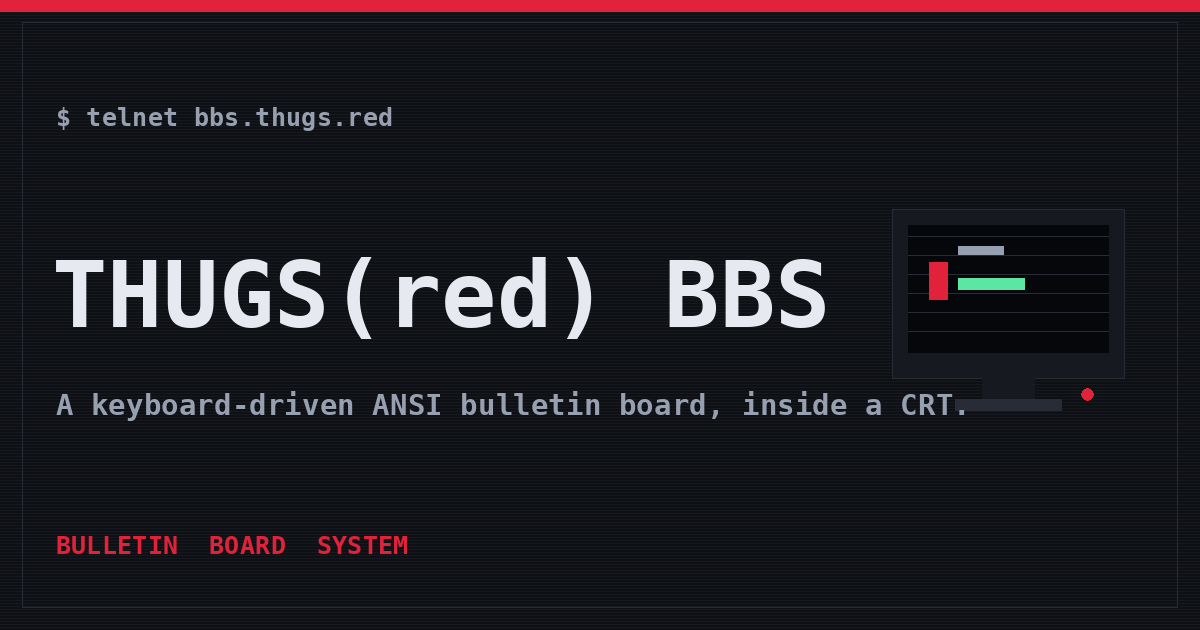
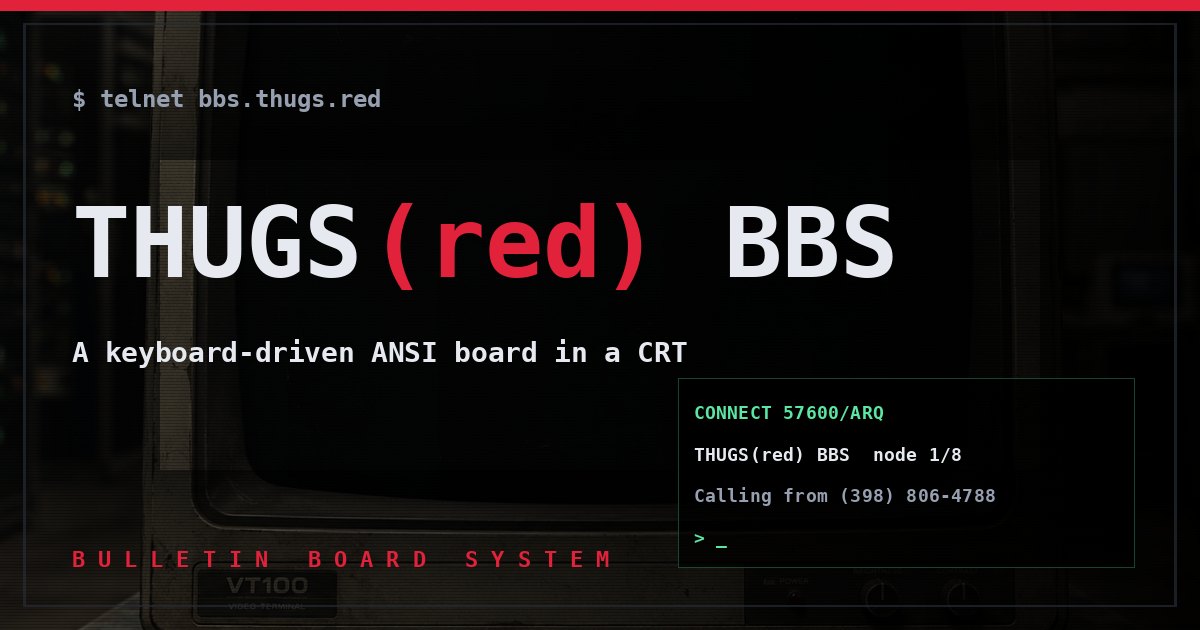
OG/social: cross-origin images, HEAD/OPTIONS, right-sized tags, CRT-photo cards
- Serve share images with Access-Control-Allow-Origin:* + Cross-Origin-Resource-
  Policy: cross-origin (both the /og/*.png endpoint and static /media images via
  .htaccess) so Discord/Slack/X/iMessage unfurlers can load them.
- Router serves HEAD via the GET handler and answers OPTIONS with a 204 + CORS
  headers (crawlers rely on both).
- Shorter homepage <title> (~52) and meta/OG description (~127); PageController
  clips every route's tags to search/social-safe lengths. Adds seo_title
  setting, og:image:type/alt/secure_url, twitter:image:alt, og:locale.
- OG cards rebuilt on the real CRT-monitor photo: darkened backdrop, left
  gradient, scanlines, big THUGS(red) wordmark, faux terminal panel. Homepage
  uses the polished static og-default.png; entity cards render dynamically.
- Fix drawCard font/monitor paths (were resolving under app/ and to a
  non-existent TTF, so cards fell back to bitmap text).

Claude-Session: https://claude.ai/code/session_01FLpjsYTqjJtSfRssCCAwyK

diff --git a/app/src/Http/Controllers/SeoController.php b/app/src/Http/Controllers/SeoController.php
@@ -92,7 +92,9 @@ final class SeoController
             ],
         ];
         return Response::raw(json_encode($m, JSON_UNESCAPED_SLASHES | JSON_PRETTY_PRINT), 'application/manifest+json')
-            ->withHeader('Cache-Control', 'public, max-age=86400');
+            ->withHeader('Cache-Control', 'public, max-age=86400')
+            ->withHeader('Access-Control-Allow-Origin', '*')
+            ->withHeader('Cross-Origin-Resource-Policy', 'cross-origin');
     }
 
     public function securityTxt(Request $req): Response
@@ -110,8 +112,7 @@ final class SeoController
         $slug = preg_replace('/[^a-z0-9_-]/i', '', $args['slug']) ?: 'default';
         $cacheFile = Storage::cachePath('og/' . $slug . '.png');
         if (is_file($cacheFile) && filemtime($cacheFile) > time() - 3600) {
-            return Response::raw((string) file_get_contents($cacheFile), 'image/png')
-                ->withHeader('Cache-Control', 'public, max-age=3600');
+            return $this->imageResponse((string) file_get_contents($cacheFile));
         }
 
         [$headline, $sub] = $this->ogText($slug);
@@ -119,7 +120,19 @@ final class SeoController
         @mkdir(dirname($cacheFile), 0770, true);
         @file_put_contents($cacheFile, $png);
 
-        return Response::raw($png, 'image/png')->withHeader('Cache-Control', 'public, max-age=3600');
+        return $this->imageResponse($png);
+    }
+
+    /** Share images must be loadable cross-origin so link unfurlers can render them. */
+    private function imageResponse(string $png): Response
+    {
+        return Response::raw($png, 'image/png')
+            ->withHeader('Cache-Control', 'public, max-age=3600')
+            ->withHeader('Access-Control-Allow-Origin', '*')
+            ->withHeader('Cross-Origin-Resource-Policy', 'cross-origin')
+            ->withHeader('Timing-Allow-Origin', '*')
+            ->withHeader('Content-Length', (string) strlen($png))
+            ->withHeader('Vary', 'Accept');
     }
 
     /** @return array{0:string,1:string} */
@@ -158,36 +171,50 @@ final class SeoController
         $W = 1200;
         $H = 630;
         $im = imagecreatetruecolor($W, $H);
-        $bg     = imagecolorallocate($im, 0x0e, 0x10, 0x13);
-        $panel  = imagecolorallocate($im, 0x16, 0x19, 0x1f);
-        $line   = imagecolorallocate($im, 0x27, 0x2c, 0x36);
-        $red    = imagecolorallocate($im, 0xe2, 0x22, 0x3b);
-        $text   = imagecolorallocate($im, 0xe6, 0xe9, 0xef);
-        $muted  = imagecolorallocate($im, 0x97, 0xa0, 0xb0);
-        imagefill($im, 0, 0, $bg);
+        imagealphablending($im, true);
+        $ca = static fn ($r, $g, $b, $a = 0) => imagecolorallocatealpha($im, $r, $g, $b, $a);
+        $line  = $ca(0x27, 0x2c, 0x36);
+        $red   = $ca(0xe2, 0x22, 0x3b);
+        $text  = $ca(0xe6, 0xe9, 0xef);
+        $muted = $ca(0x97, 0xa0, 0xb0);
+        $green = $ca(0x5b, 0xe6, 0xa3);
+        imagefilledrectangle($im, 0, 0, $W, $H, $ca(0x05, 0x07, 0x0a));
 
-        // scanline texture
-        for ($y = 0; $y < $H; $y += 3) {
-            imageline($im, 0, $y, $W, $y, $panel);
+        // CRT-monitor photo backdrop: cover-fit, darkened, then a left gradient
+        $monPath = BBS_ROOT . '/html/media/images/monitor.png';
+        $mon = is_file($monPath) ? @imagecreatefrompng($monPath) : false;
+        if ($mon) {
+            $mw = imagesx($mon);
+            $mh = imagesy($mon);
+            $s  = max($W / $mw, $H / $mh) * 1.06;
+            $dw = (int) ($mw * $s);
+            $dh = (int) ($mh * $s);
+            $tmp = imagecreatetruecolor($W, $H);
+            imagecopyresampled($tmp, $mon, 0, 0, 0, 0, $W, $H, $mw, $mh);
+            imagecopyresampled($tmp, $mon, (int) (($W - $dw) / 2), (int) (($H - $dh) / 2) - 38, 0, 0, $dw, $dh, $mw, $mh);
+            imagecopymerge($im, $tmp, 0, 0, 0, 0, $W, $H, 60);
+            imagedestroy($tmp);
+            imagedestroy($mon);
         }
-        // border frame
-        imagerectangle($im, 24, 24, $W - 25, $H - 25, $line);
-        imagerectangle($im, 26, 26, $W - 27, $H - 27, $line);
-        imagefilledrectangle($im, 24, 24, $W - 25, 34, $red);
+        for ($x = 0; $x < $W; $x++) {
+            imagefilledrectangle($im, $x, 0, $x, $H, $ca(0, 0, 0, max(10, (int) (110 - 96 * $x / $W))));
+        }
+        for ($y = 0; $y < $H; $y += 3) {
+            imageline($im, 0, $y, $W, $y, $ca(0, 0, 0, 96));
+        }
+        imagefilledrectangle($im, 0, 0, $W, 10, $red);
+        imagesetthickness($im, 2);
+        imagerectangle($im, 24, 24, $W - 25, $H - 25, $ca(0x27, 0x2c, 0x36, 50));
+        imagesetthickness($im, 1);
 
-        $font = dirname(__DIR__, 3) . '/html/media/fonts/PxPlus_IBM_VGA_9x16.ttf';
-        $useTtf = is_file($font);
-
-        if ($useTtf) {
-            imagettftext($im, 15, 0, 60, 110, $muted, $font, '$ telnet ' . Config::setting('telnet_host', 'bbs.thugs.red'));
-            $this->wrapTtf($im, $font, 46, 60, 240, $W - 120, $text, $headline, 58);
-            $this->wrapTtf($im, $font, 20, 60, $H - 120, $W - 120, $muted, $sub, 30);
-            imagettftext($im, 16, 0, 60, $H - 50, $red, $font, Config::setting('site_name', 'THUGS(red) BBS'));
+        $font = $this->font();
+        if ($font) {
+            imagettftext($im, 15, 0, 64, 110, $muted, $font, '$ telnet ' . Config::setting('telnet_host', 'bbs.thugs.red'));
+            $this->wrapTtf($im, $font, 44, 64, 232, $W - 130, $text, $headline, 58);
+            $this->wrapTtf($im, $font, 19, 64, $H - 116, $W - 130, $muted, $sub, 30);
+            imagettftext($im, 15, 0, 64, $H - 44, $red, $font, strtoupper(Config::setting('site_name', 'THUGS(red) BBS')));
         } else {
-            imagestring($im, 5, 60, 90, '$ telnet ' . Config::setting('telnet_host', 'bbs.thugs.red'), $muted);
-            imagestring($im, 5, 60, 240, substr($headline, 0, 60), $text);
-            imagestring($im, 4, 60, 300, substr($sub, 0, 90), $muted);
-            imagestring($im, 5, 60, $H - 70, Config::setting('site_name', 'THUGS(red) BBS'), $red);
+            imagestring($im, 5, 64, 232, substr($headline, 0, 60), $text);
         }
 
         ob_start();
@@ -195,6 +222,20 @@ final class SeoController
         $data = (string) ob_get_clean();
         imagedestroy($im);
         return $data;
+    }
+
+    private function font(): ?string
+    {
+        foreach ([
+            '/usr/share/fonts/truetype/dejavu/DejaVuSansMono-Bold.ttf',
+            '/usr/share/fonts/truetype/dejavu/DejaVuSansMono.ttf',
+            '/usr/share/fonts/truetype/liberation/LiberationMono-Bold.ttf',
+        ] as $f) {
+            if (is_file($f)) {
+                return $f;
+            }
+        }
+        return null;
     }
 
     private function wrapTtf($im, string $font, float $size, int $x, int $y, int $maxX, int $color, string $s, int $lh): void

diff --git a/assets/generate.php b/assets/generate.php
@@ -96,29 +96,95 @@ copy(__DIR__ . '/favicon.svg', "$WEB/favicon.svg");
 echo "  favicon.svg -> web\n";
 
 // ---- social card factory ---------------------------------------------
+/**
+ * Composite the real CRT-monitor photo as a darkened backdrop, fade the left
+ * side to near-solid for text, then lay the brand + a little faux terminal on
+ * top. Used for the default OG card and the GitHub social image.
+ */
 function card(int $W, int $H, string $out, ?string $font): void
 {
+    global $ROOT;
     $im = imagecreatetruecolor($W, $H);
-    imagefill($im, 0, 0, c($im, BG));
-    // panel
-    imagefilledrectangle($im, 0, 0, $W, $H, c($im, BG));
+    imagealphablending($im, true);
+    imagefilledrectangle($im, 0, 0, $W, $H, c($im, SCREEN));
+
+    // ---- monitor photo backdrop (cover-fit, focus a touch above centre) ----
+    $mon = @imagecreatefrompng($ROOT . '/assets/terminal_monitor.png');
+    if ($mon) {
+        $mw = imagesx($mon);
+        $mh = imagesy($mon);
+        $scale = max($W / $mw, $H / $mh) * 1.06;
+        $dw = (int) ($mw * $scale);
+        $dh = (int) ($mh * $scale);
+        $dx = (int) (($W - $dw) / 2);
+        $dy = (int) (($H - $dh) / 2) - (int) ($H * 0.06);
+        $tmp = imagecreatetruecolor($W, $H);
+        imagecopyresampled($tmp, $mon, 0, 0, 0, 0, $W, $H, $mw, $mh); // stretch-cover fallback
+        imagecopyresampled($tmp, $mon, $dx, $dy, 0, 0, $dw, $dh, $mw, $mh);
+        // blend the photo in at ~62% over the near-black base
+        imagecopymerge($im, $tmp, 0, 0, 0, 0, $W, $H, 62);
+        imagedestroy($tmp);
+        imagedestroy($mon);
+    }
+
+    // ---- darkening + left-to-right gradient so text stays readable ----
+    for ($x = 0; $x < $W; $x++) {
+        $a = (int) (108 - 96 * ($x / $W));           // 108 -> 12 alpha
+        imagefilledrectangle($im, $x, 0, $x, $H, imagecolorallocatealpha($im, 0, 0, 0, max(8, $a)));
+    }
+    // overall vignette
+    for ($i = 0; $i < 160; $i++) {
+        imagerectangle($im, $i, $i, $W - 1 - $i, $H - 1 - $i, imagecolorallocatealpha($im, 0, 0, 0, 118 - (int) ($i / 3)));
+    }
+    // scanlines
     for ($y = 0; $y < $H; $y += 3) {
-        imageline($im, 0, $y, $W, $y, c($im, SURF));
+        imageline($im, 0, $y, $W, $y, imagecolorallocatealpha($im, 0, 0, 0, 96));
     }
-    imagefilledrectangle($im, 0, 0, $W, (int) ($H * 0.018), c($im, RED));
-    imagerectangle($im, 22, 22, $W - 23, $H - 23, c($im, LINE));
 
-    $mSize = (int) ($H * 0.42);
-    monitor($im, $W - $mSize - 60, (int) (($H - $mSize) / 2), $mSize);
+    // ---- chrome ----
+    imagefilledrectangle($im, 0, 0, $W, max(4, (int) ($H * 0.016)), c($im, RED));
+    imagesetthickness($im, 2);
+    imagerectangle($im, 24, 24, $W - 25, $H - 25, imagecolorallocatealpha($im, 0x27, 0x2c, 0x36, 40));
+    imagesetthickness($im, 1);
 
+    // ---- text (left column) ----
+    $lx = (int) ($W * 0.06);
     if ($font) {
-        imagettftext($im, max(12, $H * 0.03), 0, 56, (int) ($H * 0.20), c($im, MUTED), $font, '$ telnet bbs.thugs.red');
-        imagettftext($im, max(28, $H * 0.11), 0, 52, (int) ($H * 0.52), c($im, TEXT), $font, 'THUGS(red) BBS');
-        imagettftext($im, max(14, $H * 0.035), 0, 56, (int) ($H * 0.66), c($im, MUTED), $font, 'A keyboard-driven ANSI bulletin board, inside a CRT.');
-        imagettftext($im, max(14, $H * 0.03), 0, 56, (int) ($H * 0.88), c($im, RED), $font, 'BULLETIN  BOARD  SYSTEM');
+        imagettftext($im, max(13, $H * 0.028), 0, $lx, (int) ($H * 0.17), c($im, MUTED), $font, '$ telnet bbs.thugs.red');
+        // "THUGS(red) BBS" with (red) in the accent colour
+        $big = max(30, $H * 0.115);
+        $y1  = (int) ($H * 0.44);
+        $bb  = imagettftext($im, $big, 0, $lx, $y1, c($im, TEXT), $font, 'THUGS');
+        $x2  = $bb[2] + 6;
+        $bb2 = imagettftext($im, $big, 0, $x2, $y1, c($im, RED), $font, '(red)');
+        imagettftext($im, $big, 0, $bb2[2] + 6, $y1, c($im, TEXT), $font, ' BBS');
+        imagettftext($im, max(14, $H * 0.033), 0, $lx, (int) ($H * 0.575), c($im, TEXT), $font,
+            'A keyboard-driven ANSI board in a CRT');
+        imagettftext($im, max(12, $H * 0.026), 0, $lx, (int) ($H * 0.90), c($im, RED), $font,
+            'B U L L E T I N   B O A R D   S Y S T E M');
     } else {
-        imagestring($im, 5, 56, (int) ($H * 0.2), 'THUGS(red) BBS', c($im, TEXT));
+        imagestring($im, 5, $lx, (int) ($H * 0.4), 'THUGS(red) BBS', c($im, TEXT));
     }
+
+    // ---- faux terminal panel (lower-right) ----
+    $pw = (int) ($W * 0.38);
+    $ph = (int) ($H * 0.30);
+    $px = $W - $pw - (int) ($W * 0.055);
+    $py = (int) ($H * 0.60);
+    imagefilledrectangle($im, $px, $py, $px + $pw, $py + $ph, imagecolorallocatealpha($im, 0, 0, 0, 40));
+    imagerectangle($im, $px, $py, $px + $pw, $py + $ph, imagecolorallocatealpha($im, 0x5b, 0xe6, 0xa3, 90));
+    for ($y = $py + 2; $y < $py + $ph; $y += 3) {
+        imageline($im, $px + 1, $y, $px + $pw - 1, $y, imagecolorallocatealpha($im, 0, 0, 0, 110));
+    }
+    if ($font) {
+        $ts = max(11, $H * 0.022);
+        $tx = $px + 16;
+        imagettftext($im, $ts, 0, $tx, $py + (int) ($ph * 0.22), c($im, GREEN), $font, 'CONNECT 57600/ARQ');
+        imagettftext($im, $ts, 0, $tx, $py + (int) ($ph * 0.44), c($im, TEXT),  $font, 'THUGS(red) BBS  node 1/8');
+        imagettftext($im, $ts, 0, $tx, $py + (int) ($ph * 0.66), c($im, MUTED), $font, 'Calling from (398) 806-4788');
+        imagettftext($im, $ts, 0, $tx, $py + (int) ($ph * 0.88), c($im, GREEN), $font, '> _');
+    }
+
     imagepng($im, $out);
     imagedestroy($im);
     echo "  " . basename($out) . "\n";

diff --git a/app/src/Http/Controllers/PageController.php b/app/src/Http/Controllers/PageController.php
@@ -132,6 +132,12 @@ final class PageController
     // -----------------------------------------------------------------
     private function page(Request $req, array $meta): Response
     {
+        // Keep every route's tags inside the sizes search engines / social
+        // cards actually render, so nothing shows up truncated.
+        $meta['title']       = $this->tidy($meta['title'] ?? $this->siteName(), 70);
+        $meta['description'] = $this->tidy($meta['description'] ?? '', 158);
+        $meta['og_description'] = $this->tidy($meta['og_description'] ?? $meta['description'], 150);
+
         $html = View::render('shell', [
             'meta'     => $meta,
             'origin'   => $this->origin(),
@@ -142,16 +148,39 @@ final class PageController
         return Response::html($html)->withHeader('Cache-Control', 'no-cache');
     }
 
+    /** Collapse whitespace, trim to $n chars on a word boundary, add an ellipsis. */
+    private function tidy(string $s, int $n): string
+    {
+        $s = trim(preg_replace('/\s+/', ' ', $s) ?? $s);
+        if (mb_strlen($s) <= $n) {
+            return $s;
+        }
+        $cut = mb_substr($s, 0, $n - 1);
+        $sp  = mb_strrpos($cut, ' ');
+        if ($sp !== false && $sp > $n - 20) {
+            $cut = mb_substr($cut, 0, $sp);
+        }
+        return rtrim($cut, " .,;:-") . '…';
+    }
+
     private function baseMeta(): array
     {
+        // ~55 char title, ~150 char description keep social/SERP previews intact.
+        $title = Config::setting('seo_title', $this->siteName() . ' — an ANSI bulletin board inside a CRT');
+        $desc  = Config::setting(
+            'seo_description',
+            'A keyboard-driven ANSI bulletin board that runs inside a CRT terminal — messages, files, door games, chat and a live news wire.'
+        );
         return [
-            'title'       => $this->siteName() . ' - dial in',
-            'description' => Config::setting('seo_description', 'A web-based ANSI/ASCII BBS rendered inside a CRT terminal.'),
-            'canonical'   => $this->origin() . '/',
-            'og_type'     => 'website',
-            'og_image'    => $this->origin() . '/og/default.png',
-            'goto'        => '',
-            'jsonld'      => [
+            'title'          => mb_substr($title, 0, 70),
+            'description'    => mb_substr($desc, 0, 155),
+            'og_description' => mb_substr($desc, 0, 150),
+            'canonical'      => $this->origin() . '/',
+            'og_type'        => 'website',
+            'og_image'       => $this->origin() . '/media/images/og-default.png',
+            'og_image_alt'   => $this->siteName() . ' — a keyboard-driven ANSI bulletin board inside a CRT terminal',
+            'goto'           => '',
+            'jsonld'         => [
                 '@context' => 'https://schema.org',
                 '@type'    => 'WebSite',
                 'name'     => $this->siteName(),

diff --git a/app/views/shell.php b/app/views/shell.php
@@ -2,12 +2,14 @@
 /** @var array $meta @var string $origin @var string $site @var string $buildver @var string $asset_v */
 use Bbs\Core\View;
 $e = fn ($v) => View::e($v);
-$title = $meta['title'] ?? $site;
-$desc  = $meta['description'] ?? '';
-$canon = $meta['canonical'] ?? ($origin . '/');
-$ogimg = $meta['og_image'] ?? ($origin . '/og/default.png');
+$title  = $meta['title'] ?? $site;
+$desc   = $meta['description'] ?? '';
+$ogdesc = $meta['og_description'] ?? $desc;
+$canon  = $meta['canonical'] ?? ($origin . '/');
+$ogimg  = $meta['og_image'] ?? ($origin . '/og/default.png');
 $ogtype = $meta['og_type'] ?? 'website';
-$goto  = $meta['goto'] ?? '';
+$ogalt  = $meta['og_image_alt'] ?? $title;
+$goto   = $meta['goto'] ?? '';
 $jsonld = $meta['jsonld'] ?? null;
 ?><!doctype html>
 <html lang="en" data-goto="<?= $e($goto) ?>">
@@ -24,16 +26,21 @@ $jsonld = $meta['jsonld'] ?? null;
 
 <meta property="og:site_name" content="<?= $e($site) ?>">
 <meta property="og:title" content="<?= $e($title) ?>">
-<meta property="og:description" content="<?= $e($desc) ?>">
+<meta property="og:description" content="<?= $e($ogdesc) ?>">
 <meta property="og:type" content="<?= $e($ogtype) ?>">
 <meta property="og:url" content="<?= $e($canon) ?>">
+<meta property="og:locale" content="en_US">
 <meta property="og:image" content="<?= $e($ogimg) ?>">
+<meta property="og:image:secure_url" content="<?= $e($ogimg) ?>">
+<meta property="og:image:type" content="image/png">
 <meta property="og:image:width" content="1200">
 <meta property="og:image:height" content="630">
+<meta property="og:image:alt" content="<?= $e($ogalt) ?>">
 <meta name="twitter:card" content="summary_large_image">
 <meta name="twitter:title" content="<?= $e($title) ?>">
-<meta name="twitter:description" content="<?= $e($desc) ?>">
+<meta name="twitter:description" content="<?= $e($ogdesc) ?>">
 <meta name="twitter:image" content="<?= $e($ogimg) ?>">
+<meta name="twitter:image:alt" content="<?= $e($ogalt) ?>">
 
 <link rel="icon" href="/media/images/favicon.svg" type="image/svg+xml">
 <link rel="icon" href="/media/images/favicon-32.png" sizes="32x32" type="image/png">

diff --git a/app/src/Core/Router.php b/app/src/Core/Router.php
@@ -39,12 +39,23 @@ final class Router
 
     public function dispatch(Request $req): Response
     {
+        // HEAD is served by the matching GET handler (Apache/PHP drops the body);
+        // OPTIONS gets a bare CORS-friendly 204. Social crawlers rely on both.
+        $method = $req->method === 'HEAD' ? 'GET' : $req->method;
+        if ($req->method === 'OPTIONS') {
+            return Response::raw('', 'text/plain', 204)
+                ->withHeader('Allow', 'GET, HEAD, POST, OPTIONS')
+                ->withHeader('Access-Control-Allow-Origin', '*')
+                ->withHeader('Access-Control-Allow-Methods', 'GET, HEAD, OPTIONS')
+                ->withHeader('Access-Control-Max-Age', '86400');
+        }
+
         $allowed = [];
         foreach ($this->routes as $route) {
             if (!preg_match($route['regex'], $req->path, $m)) {
                 continue;
             }
-            if ($route['method'] !== $req->method) {
+            if ($route['method'] !== $method) {
                 $allowed[$route['method']] = true;
                 continue;
             }
